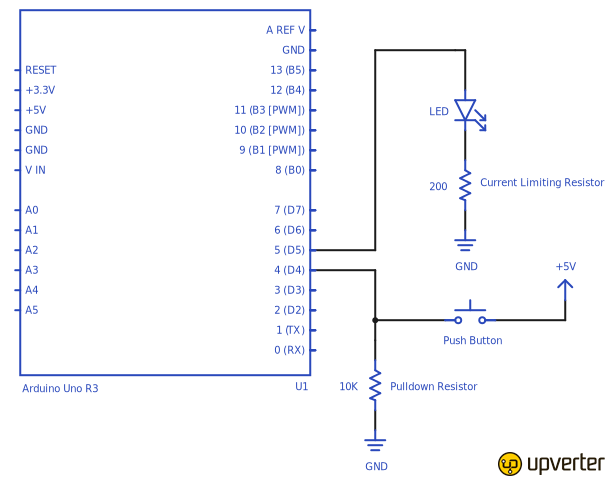
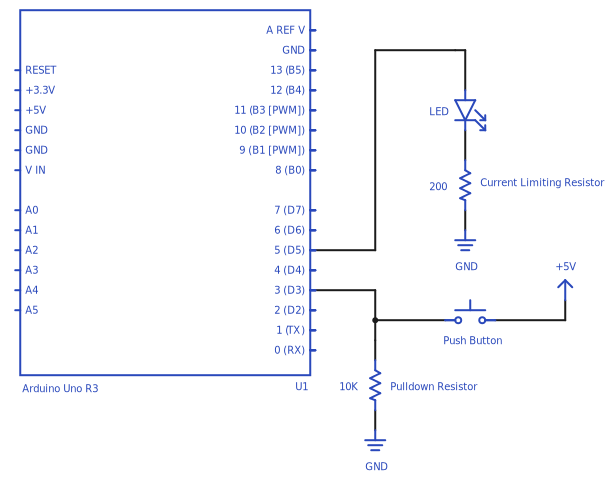
Updating ex 3.

Changed region(s): [[0.8098, 0.9375, 0.9967, 1.0], [0.5295, 0.5625, 0.623, 0.625]]

diff --git a/README.md b/README.md
@@ -17,7 +17,7 @@ Digital Outputs, Basic Timing, Functions
 
 
 ## Exercise 2: Adjust blink rate with a button
-Connect a push button to pin 4 of the Arduino Uno as shown in the schematic. Be sure to add a 10K pulldown resistor to the pin 4 side of the button so that the input is not floating (prevents false readings). 
+Connect a push button to pin 3 of the Arduino Uno as shown in the schematic. Be sure to add a 10K pulldown resistor to the "arduino side" of the button so that the input is not floating when the button is not pressed(prevents false readings). 
 
 1. Update the LED function to calculate elapsed time using the 'millis()' function instead of using 'delay(500);' in the main loop.
 
